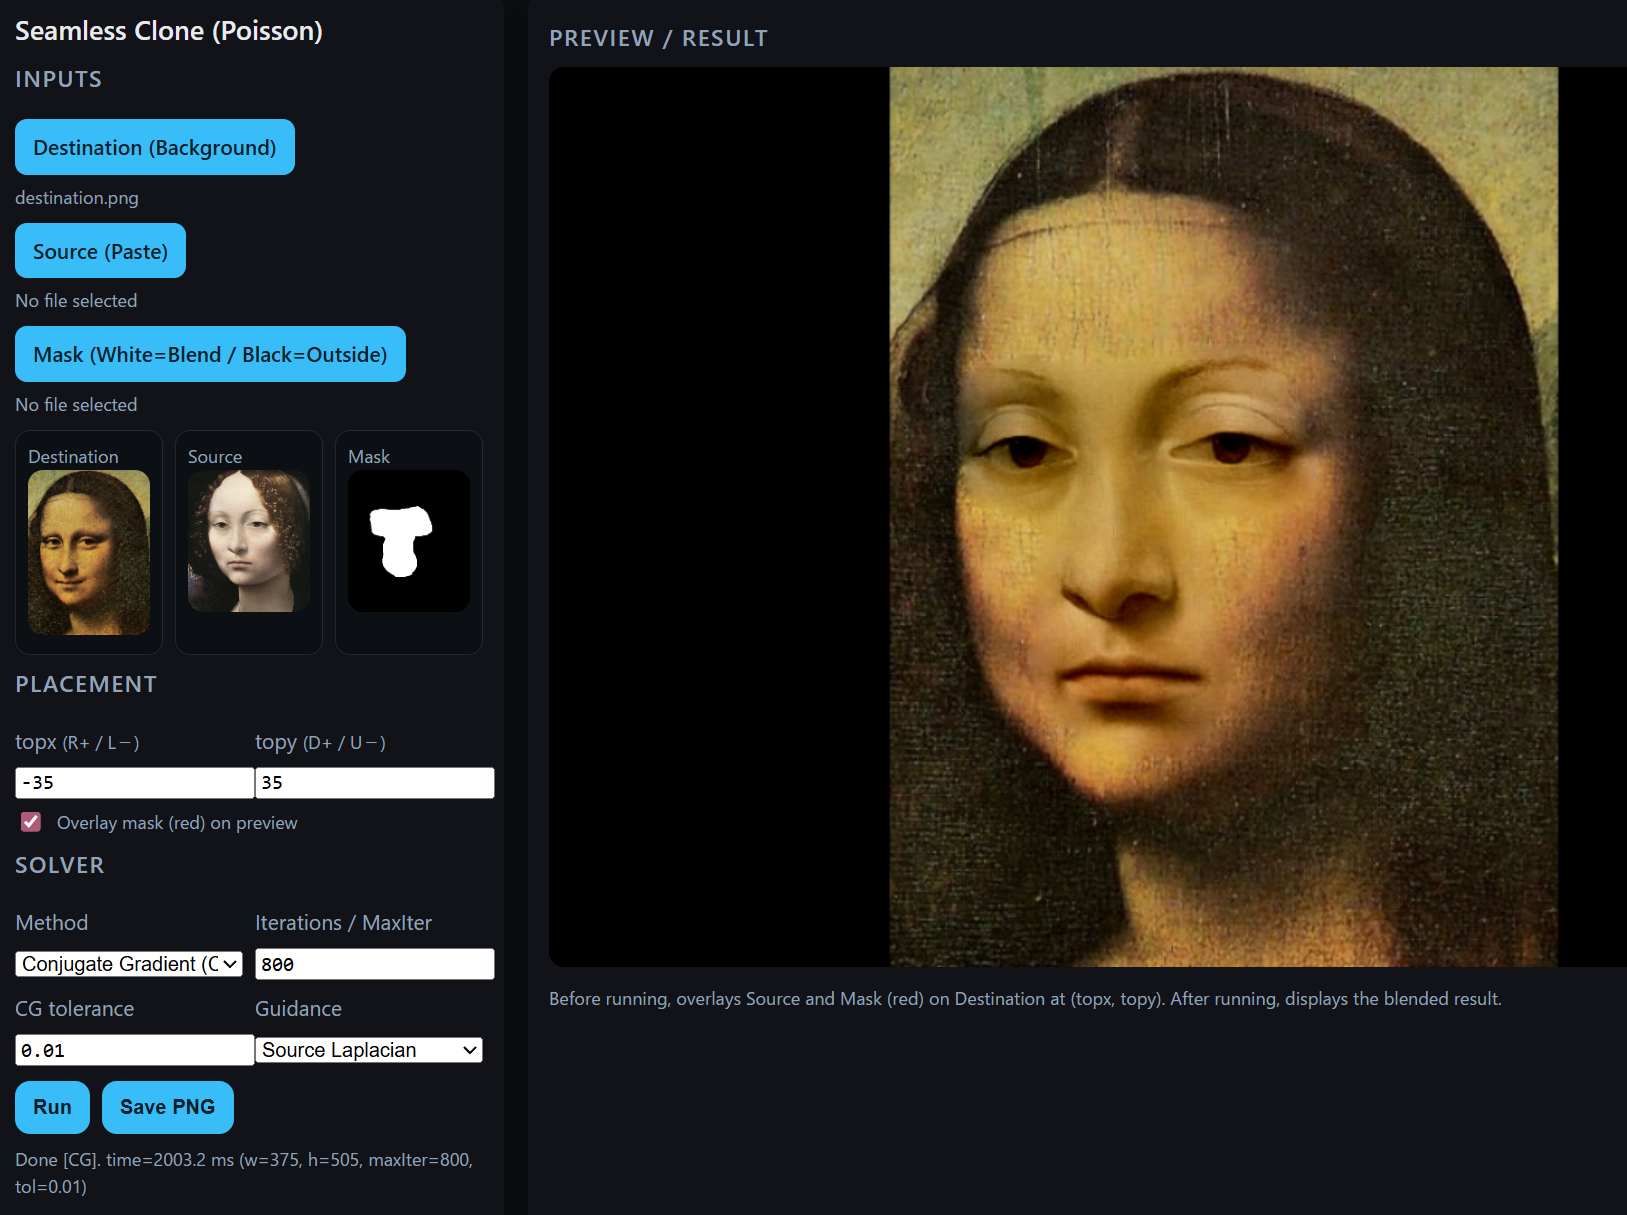
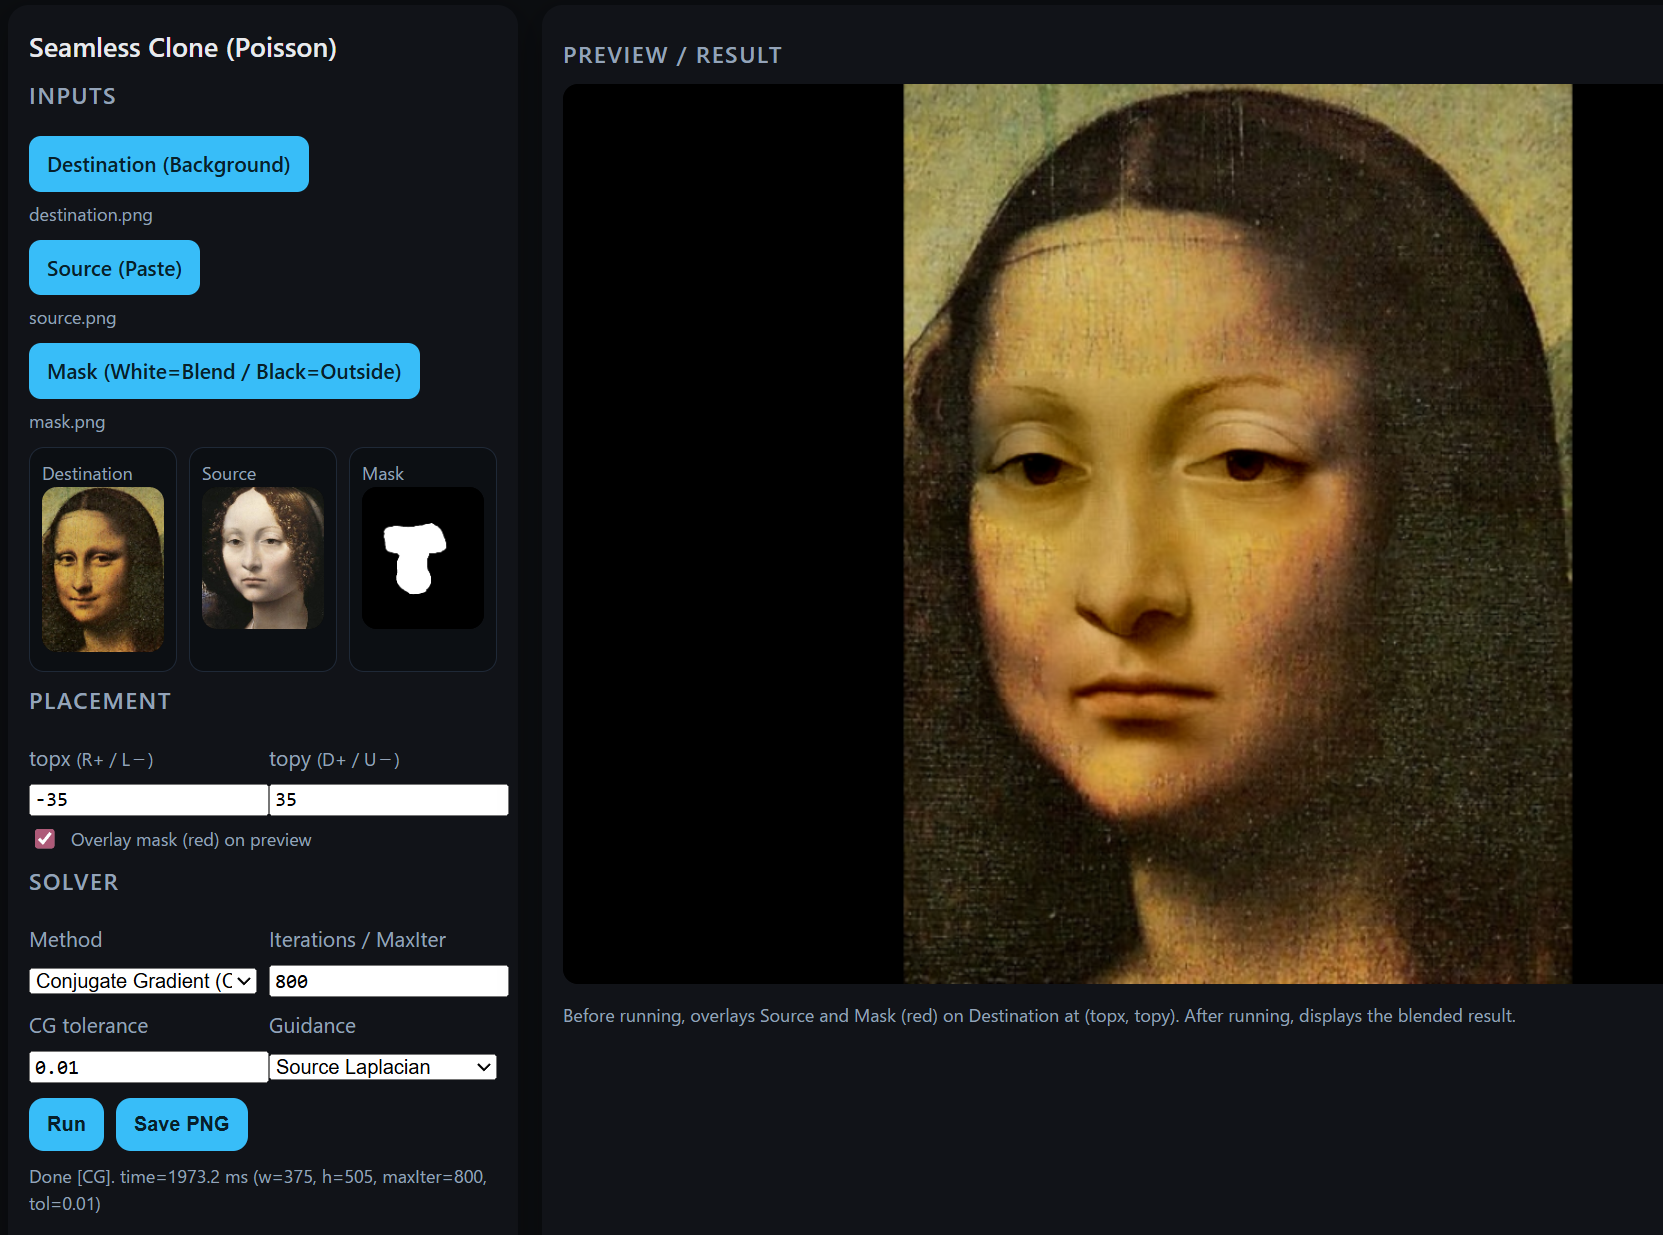
Update

diff --git a/index.html b/index.html
@@ -175,14 +175,14 @@
         Source (Paste)
         <input id="fileSrc" type="file" accept="image/*" hidden>
       </label>
-      <div class="hint" id="fileDstName">No file selected</div>
+      <div class="hint" id="fileSrcName">No file selected</div>
 
 
       <label class="fileBtn">
         Mask (White=Blend / Black=Outside)
         <input id="fileMask" type="file" accept="image/*" hidden>
       </label>
-      <div class="hint" id="fileDstName">No file selected</div>
+      <div class="hint" id="fileMaskName">No file selected</div>
 
       <!-- <label>Destination (Background)</label>
       <input id="fileDst" type="file" accept="image/*" />
@@ -304,13 +304,27 @@
 
     const fileDst = document.getElementById('fileDst');
     const fileDstName = document.getElementById('fileDstName');
-
     fileDst.addEventListener('change', () => {
       fileDstName.textContent = fileDst.files.length
         ? fileDst.files[0].name
         : 'No file selected';
     });
 
+    const fileSrc = document.getElementById('fileSrc');
+    const fileSrcName = document.getElementById('fileSrcName');
+    fileSrc.addEventListener('change', () => {
+      fileSrcName.textContent = fileSrc.files.length
+        ? fileSrc.files[0].name
+        : 'No file selected';
+    });
+
+    const fileMask = document.getElementById('fileMask');
+    const fileMaskName = document.getElementById('fileMaskName');
+    fileMask.addEventListener('change', () => {
+      fileMaskName.textContent = fileMask.files.length
+        ? fileMask.files[0].name
+        : 'No file selected';
+    });
 
     function loadImageURL(url) {
       return new Promise((resolve, reject) => {
